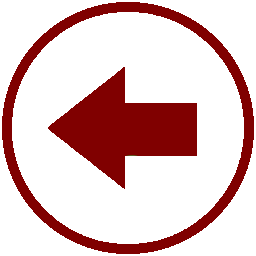
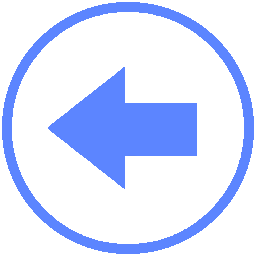
-Mejoras en la subida de casos duplicados. -Cambios en el estilo.

Changed region(s): [[0.0, 0.0, 1.0, 1.0], [0.1875, 0.25, 0.7812, 0.75]]

diff --git a/eprail/WebContent/css/dd.css b/eprail/WebContent/css/dd.css
@@ -43,7 +43,7 @@ img.fnone{float:none !important}
 .ddcommon .noBorderTop{border-top:none 0  !important; padding:0; margin:0;}
 
 /*************** default theme **********************/
-.dd{border:1px solid #c3c3c3;}
+.dd{border:1px solid #5C85FF;}
 .dd .divider{border-left:1px solid #c3c3c3; border-right:1px solid #fff;; right:24px;}
 .dd .ddArrow{width:16px;height:16px; margin-top:-8px; background:url(/eprail/img/dd_arrow.gif) no-repeat;}
 .dd .ddArrow:hover{background-position:0 100%;}

diff --git a/eprail/WebContent/css/style.css b/eprail/WebContent/css/style.css
@@ -2,7 +2,7 @@
 body, html{
 	height: 100%;
 	overflow: auto;
-	background-color: #D6EBFF
+	background-color: #D6EBFF;
 }
 
 div.center{
@@ -134,7 +134,7 @@ th{
 }
 
 tr.alt{
-	background-color: #ecd2d1;  
+	background-color: #D6EBFF;  
 }
 
 .delete{

diff --git a/eprailJPA/src/controller/tfg/eprailJPA/ProxyManager.java b/eprailJPA/src/controller/tfg/eprailJPA/ProxyManager.java
@@ -199,14 +199,15 @@ public class ProxyManager {
 						.getSingleResult();
 	}
 	
-	public Project findProyectByNameAndIDrepeat(Project project, User user) {
-		return (Project) getEntityManager()
+	public List<Project> findProyectByNameAndIDrepeat(Project project, User user) {
+		return getEntityManager()
 				.createQuery(
-						"SELECT c FROM Project c WHERE c.user.uid LIKE :custUID AND c.projectName LIKE :custName AND c.idProject <> :custId")
+						"SELECT c FROM Project c WHERE c.user.uid LIKE :custUID AND c.projectName LIKE :custName AND c.idProject <> :custId  ORDER BY c.dateCreation DESC")
 						.setParameter("custUID", user.getUid())
-						.setParameter("custName", project.getProjectName())
+						.setParameter("custName", project.getProjectName()+"%")
 						.setParameter("custId", project.getIdProject())
-						.getSingleResult();
+						.setMaxResults(2)
+						.getResultList();
 	}
 
 	public Sharing findSharingByIdandUID(long uid, long id) {

diff --git a/eprail/src/controller/tfg/eprail/ManagementProject.java b/eprail/src/controller/tfg/eprail/ManagementProject.java
@@ -80,7 +80,7 @@ public class ManagementProject {
 		return null;
 	}
 	
-	public Project buscarJPARepetido(Project old, User userBean){
+	public List<Project> buscarJPARepetido(Project old, User userBean){
 
 		EntityManagerFactory factory = Persistence.createEntityManagerFactory("eprailJPA"); 
 
